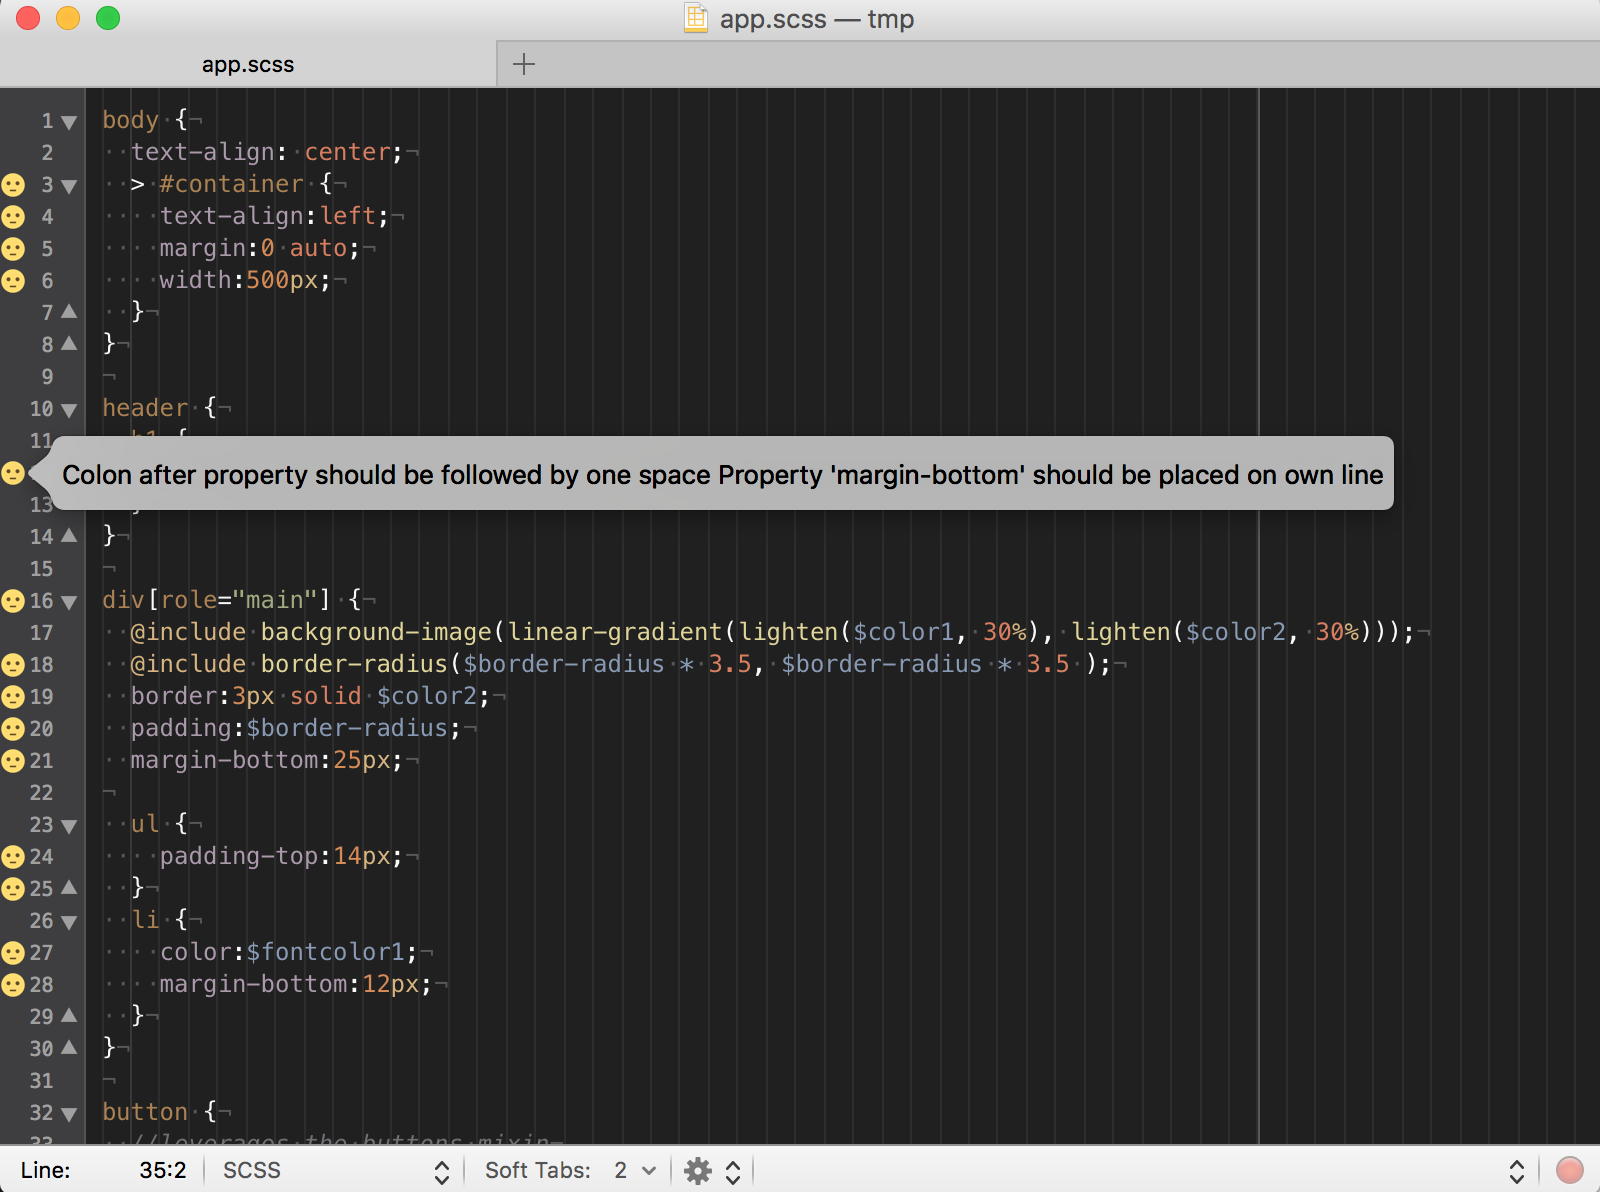
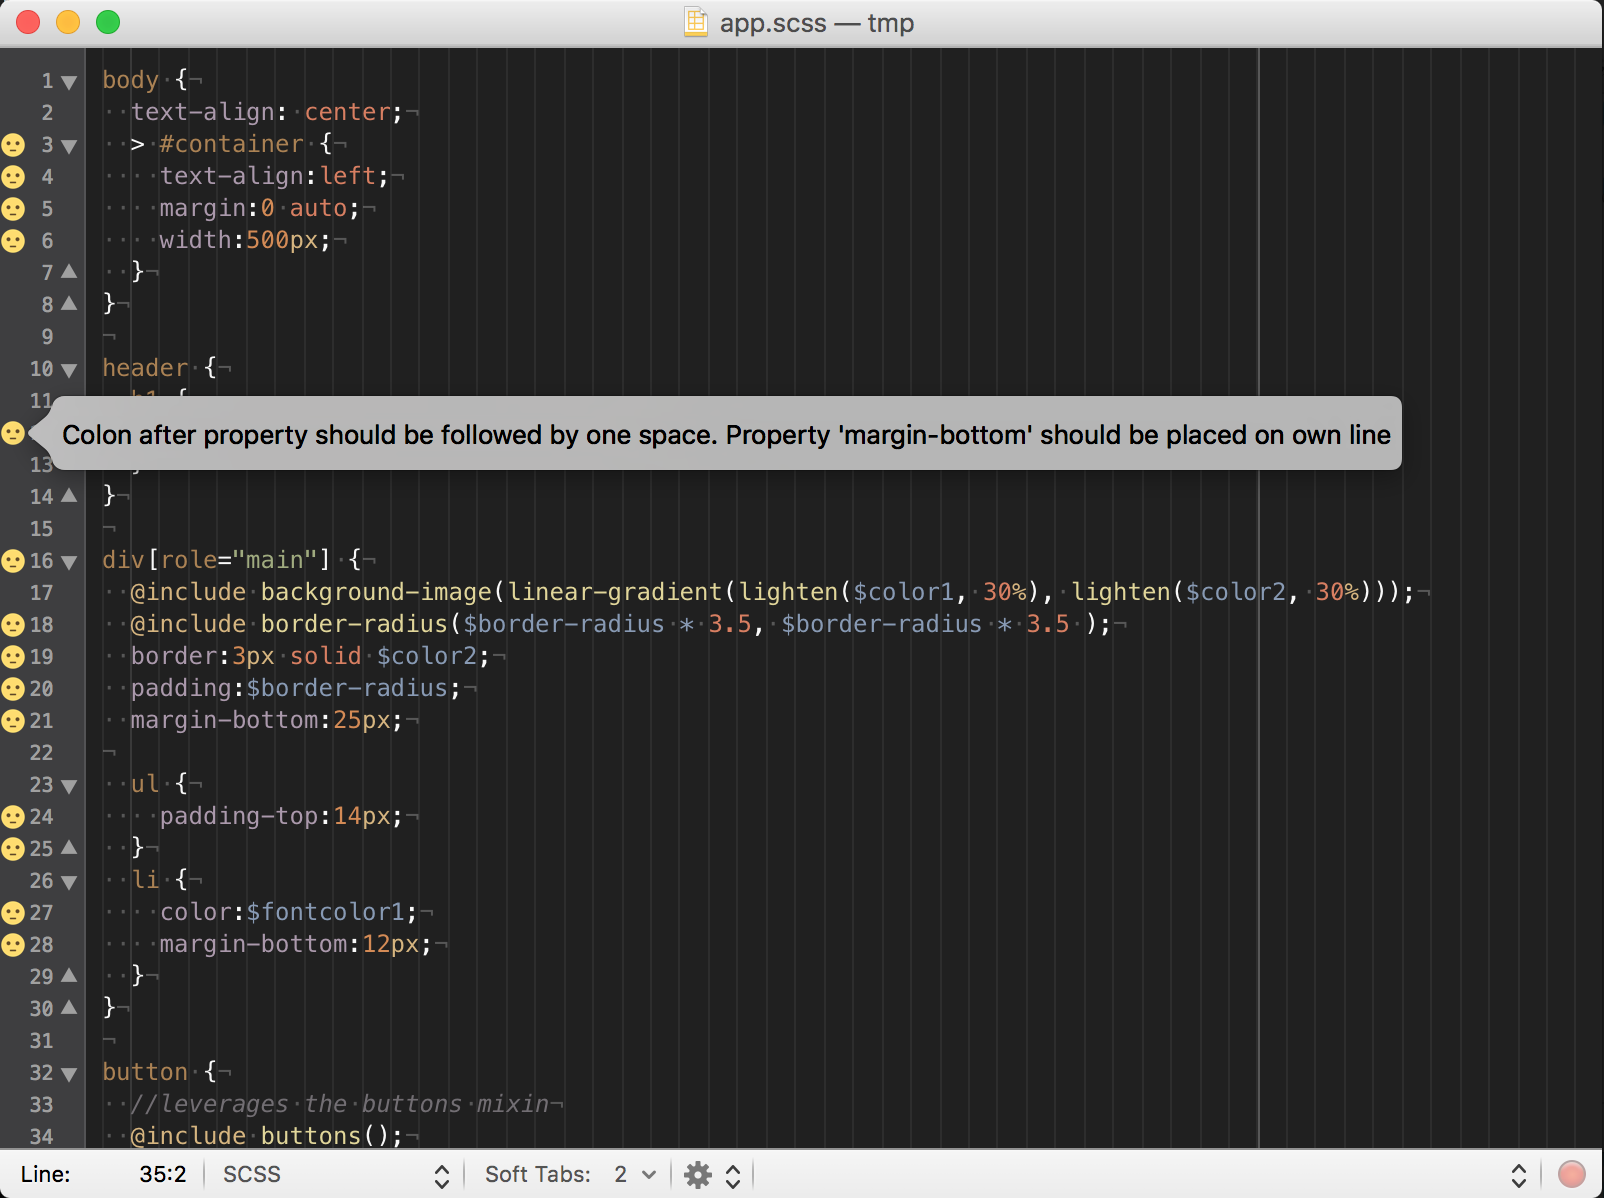
join linter messages by a period

Changed region(s): [[0.0, 0.0, 1.0, 1.0]]

diff --git a/Support/scss-lint.rb b/Support/scss-lint.rb
@@ -47,7 +47,7 @@ def command(messages)
   messages.each do |severity, messages|
     args << ["--clear-mark=#{icons[severity]}"]
     messages.each do |line, message|
-      args << "--set-mark=#{icons[severity]}:#{message.uniq.join(' ').inspect}"
+      args << "--set-mark=#{icons[severity]}:#{message.uniq.join('. ').inspect}"
       args << "--line=#{line}"
     end
   end
